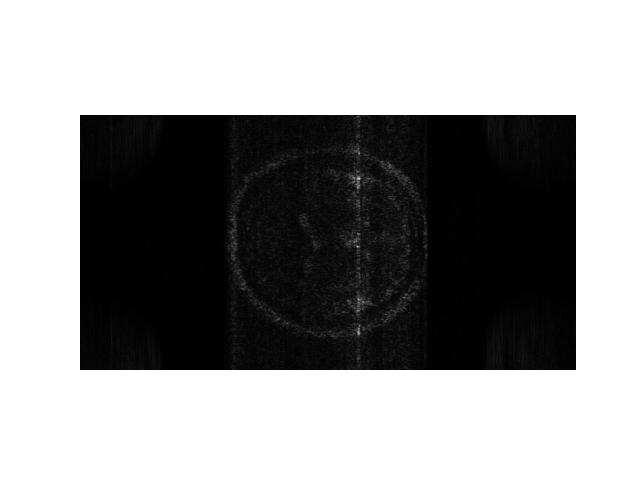
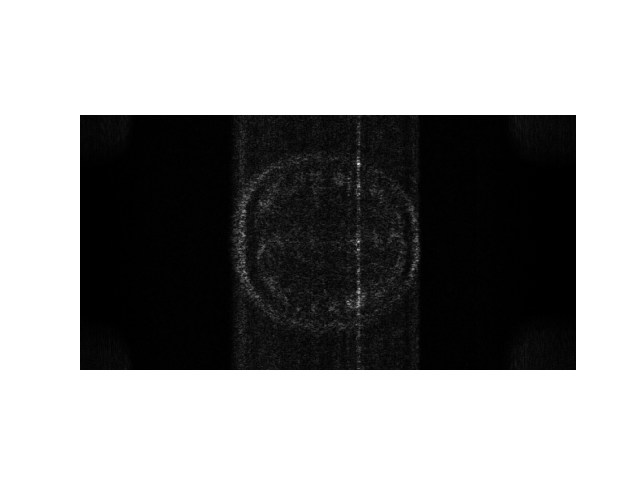
test

Changed region(s): [[0.3438, 0.2812, 0.6562, 0.7188], [0.5312, 0.4688, 0.5938, 0.5312], [0.375, 0.6875, 0.4062, 0.7188]]

diff --git a/my_CDLNet/sense.py b/my_CDLNet/sense.py
@@ -29,7 +29,7 @@ def sense(y, acceleration_map, smaps, verbose):
     EHE = partial(eHe, mri_encoding = E, mri_decoding = EH)
     # If we have y = Ex, then we want to work with E^Hy = E^HEx, i.e. our symmetric operator is EHE
     EHy = EH(y)
-    return conj_grad(EHE, EH(y), tol = 1e-6, max_iter = 1e5, verbose = verbose)
+    return conj_grad(EHE, EH(y), tol = 1e-6, max_iter = 1e3, verbose = verbose)
 
 def main(args):
     ngpu = torch.cuda.device_count()
@@ -61,7 +61,7 @@ def main(args):
     mask = mask.to(device)
 
     # Mask kspace
-    kspace_masked = torch.einsum('jj, ijk -> ijk', mask, kspace)
+    kspace_masked = torch.complex(mask[None, :, :], mask[None, :, :]) @ kspace
     mri_recon, tol_reached = sense(kspace_masked, mask, smaps, verbose = False)
 
     breakpoint()

diff --git a/my_CDLNet/mri_utils.py b/my_CDLNet/mri_utils.py
@@ -26,9 +26,9 @@ def mri_encoding(x, acceleration_map, smaps):
 
 def mri_decoding(y, acceleration_map, smaps):
     # Apply mask to each channel of y
-    y_mask = torch.einsum('jj, ijk -> ijk', acceleration_map, y)
+    # y_mask = torch.einsum('jj, ijk -> ijk', acceleration_map, y)
     # Apply ifft2
-    x_coils = (fft.ifft2(y_mask, norm = 'ortho'))
+    x_coils = (fft.ifft2(y, norm = 'ortho'))
     # Coil combination
     x = torch.einsum("ijk, ijk -> jk", smaps.conj(), x_coils)
     return x
